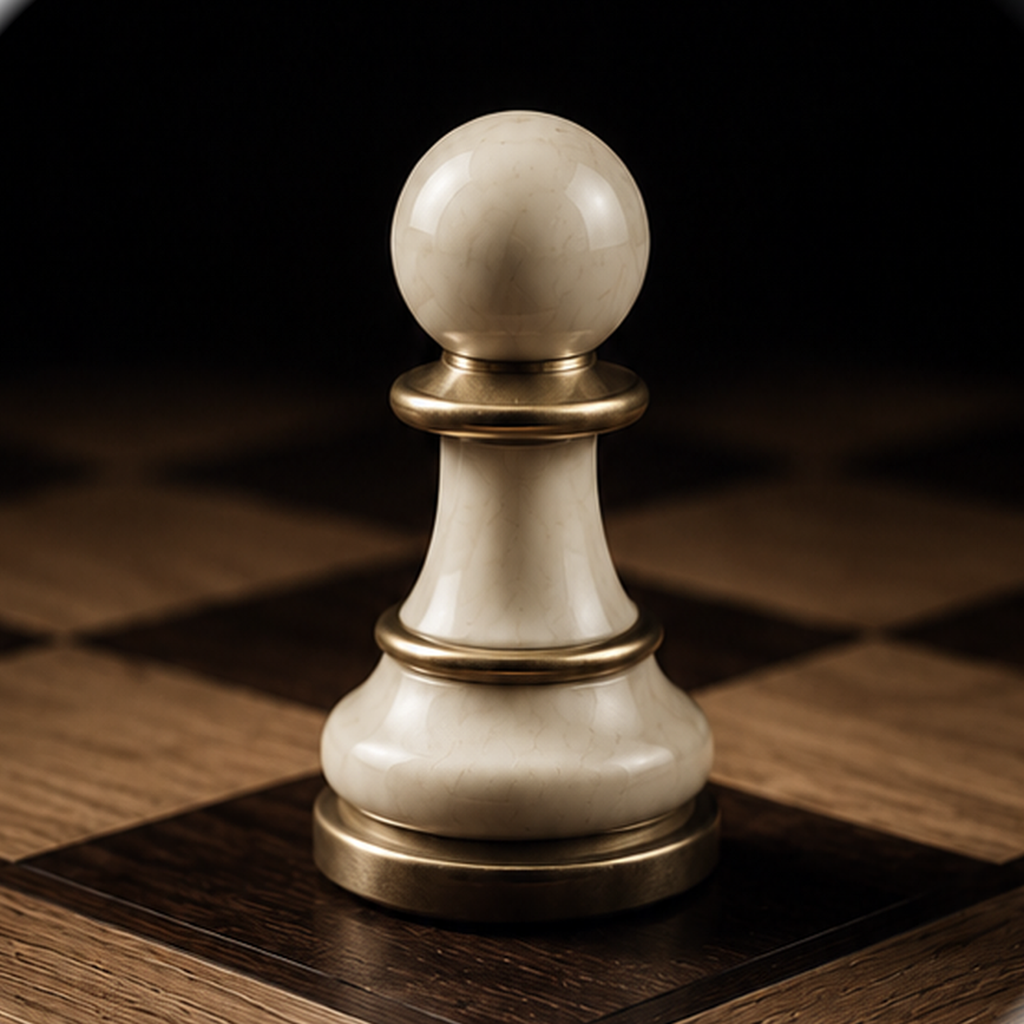
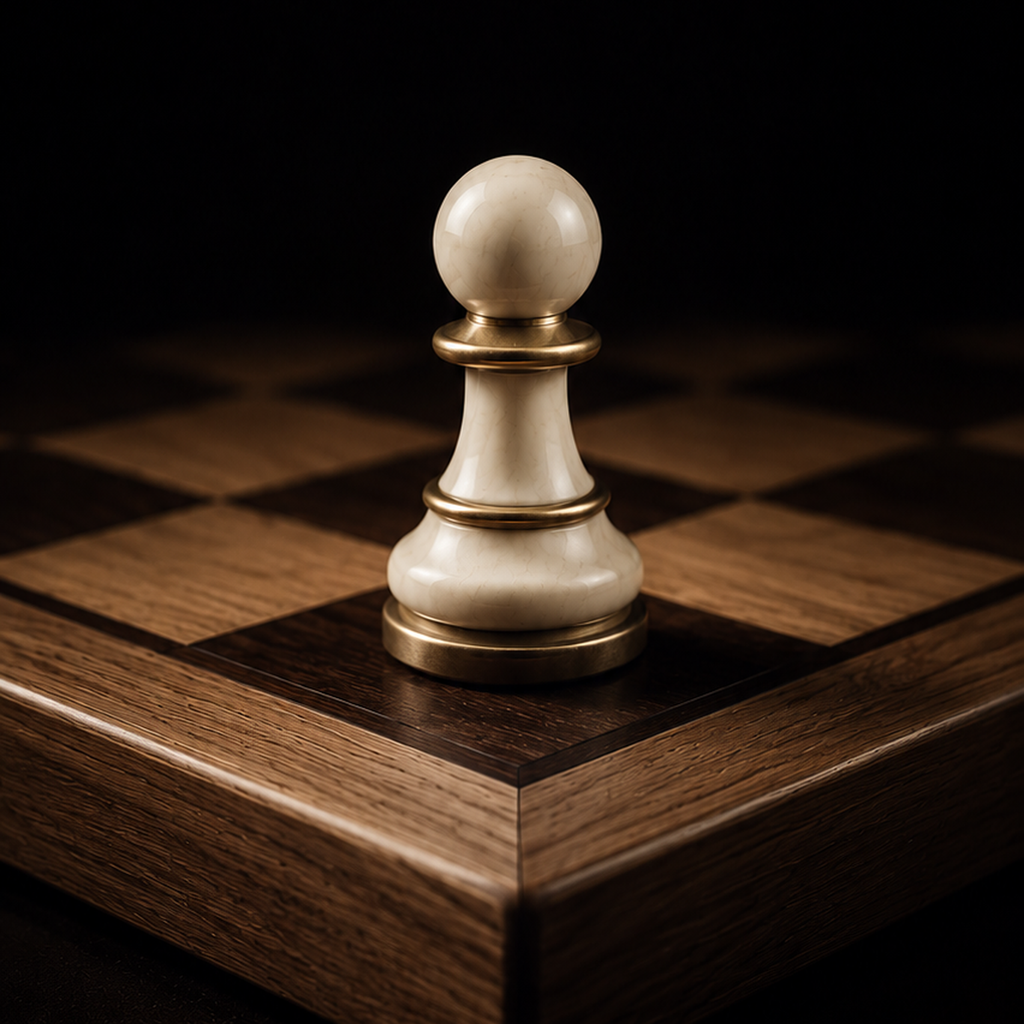
Cut everything from the photograph, not from the export
The iOS export is a zoomed crop of the original with Apple's mask already
applied, and building from it meant reconstructing a square by inscribing 868
of its 1024 pixels and scaling back up. The original is 2048, opaque and
square, and none of that is necessary.

It is in the repository now — ios/Resources/AppIcon.icon/Assets — because it
kept living on a Desktop and twice went missing between one change and the
next. The generator reads it from there, so a clone can rebuild every icon
without asking anybody for a file.

The framing changes with it: the photograph is wider than the export, so the
app icon shows more board and a smaller piece. That is the picture as shot.

The crop constants go back to the ones measured on this framing, and the
document's layer is written at 1024, the size icon.json declares, downscaled
from the master rather than upscaled from a reconstruction.

Verified: the site is deployed, the app builds, and the icon renders on the
simulator's home screen.

diff --git a/web/tools/icons.py b/web/tools/icons.py
@@ -33,10 +33,18 @@ from PIL import Image
 
 ROOT = Path(__file__).resolve().parent.parent
 OUT = ROOT / "public"
+# The master, in the repository rather than on somebody's Desktop — which is
+# where it kept living, and where it twice went missing between one change and
+# the next.
+#
+# It is the photograph as shot: 2048 square, opaque, wider than the iOS export,
+# which is a zoomed crop of it with Apple's mask already applied. Everything
+# else here is cut from this.
 SOURCE = Path(
     os.environ.get(
         "BRASSPAWN_ICON",
-        Path.home() / "Desktop/brasspawnAppicon-iOS-Default-1024x1024@1x.png",
+        Path(__file__).resolve().parent.parent.parent
+        / "ios/Resources/AppIcon.icon/Assets/Brass_Pawn_Logo_2048.png",
     )
 )
 # The iOS target, in the same repository. One asset, one command, both places:
@@ -67,7 +75,7 @@ SMALL = (16, 32, 48)
 #
 # Measured, not guessed: the ivory of the piece is the only thing in the frame
 # that is both bright and unsaturated, so isolating it by hue puts the piece at
-# x 396-616 and its top at y 168 in the master. These are those numbers,
+# x 808-1144 and its top at y 384 in the 2048 master. These are those numbers,
 # written down.
 #
 # They are constants rather than a detector because the detector kept finding
@@ -76,7 +84,7 @@ SMALL = (16, 32, 48)
 # which produces a crop that is wrong in a way nobody can see in a sixteen-pixel
 # PNG. A constant that is checked against the source is safer than a
 # measurement that can quietly miss.
-HEAD = {"x": 0.232, "y": 0.141, "side": 0.524}
+HEAD = {"x": 0.281, "y": 0.170, "side": 0.400}
 
 
 def pawn_box(im: Image.Image) -> tuple[int, int, int, int]:
@@ -206,7 +214,10 @@ def main() -> int:
 
         spec = _json.loads((IOS_ICON_DOC / "icon.json").read_text())
         name = spec["groups"][0]["layers"][0]["image-name"]
-        master.save(doc_assets / name, optimize=True)
+        # Written at 1024 because that is the size icon.json declares. The
+        # master is 2048; downscaling loses nothing anybody can see and keeps
+        # the document honest if it is ever reopened in Icon Composer.
+        master.resize((1024, 1024), Image.LANCZOS).save(doc_assets / name, optimize=True)
         print(f"  {name[:28]:28} squared, in AppIcon.icon  (the app's icon)")
 
     stale = OUT / "favicon.svg"

diff --git a/ios/Resources/AppIcon.icon/README.md b/ios/Resources/AppIcon.icon/README.md
@@ -15,6 +15,17 @@ iOS 26 asks for — light, dark and tinted — which you can confirm in a build:
 xcrun assetutil --info BrassPawn.app/Assets.car | grep IconImageStack
 ```
 
+## The master is here
+
+`Assets/Brass_Pawn_Logo_2048.png` — the photograph as shot, 2048 square and
+opaque. Everything is cut from it: this document's layer, the three web icons,
+the three favicon sizes and the social card.
+
+It is in the repository because it kept living on a Desktop, and twice went
+missing between one change and the next. The iOS export beside it is a zoomed
+crop of this with Apple's mask already applied — useful to look at, not useful
+to build from.
+
 ## The layer must stay square
 
 `icon.json` has one layer, and it has to be the **square** artwork. Icon
@@ -26,8 +37,8 @@ Apple's mask corner is about 229. Between them is a ring where the layer is
 transparent and the mask is not, and through it shows this document's `fill`,
 which is `extended-srgb:0.000, 0.533, 1.000`. A blue rim on all four corners.
 
-`web/tools/icons.py` writes the square layer here, from the same artwork it
-cuts the favicon and the social card from:
+`web/tools/icons.py` writes the layer here at 1024, the size `icon.json`
+declares, downscaled from the master:
 
 ```bash
 python3 web/tools/icons.py
